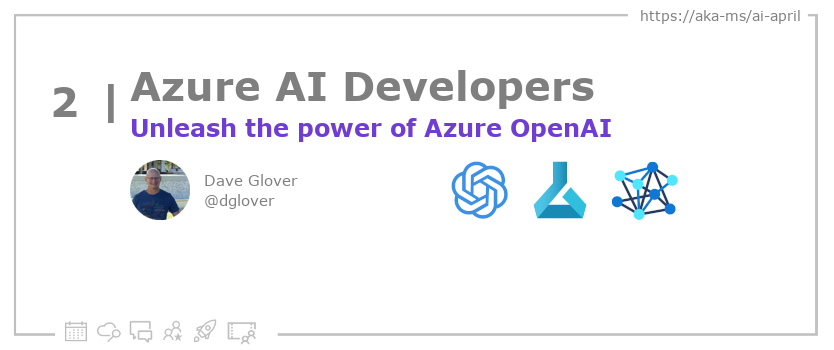
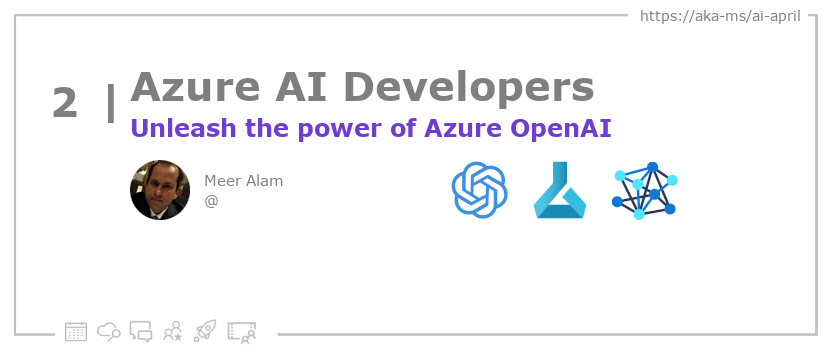
docs

Changed region(s): [[0.1559, 0.4571, 0.3429, 0.6286]]

diff --git a/website/blog/2023-aia/2023-04-03-azure-openai-services/index.md b/website/blog/2023-aia/2023-04-03-azure-openai-services/index.md
@@ -1,7 +1,7 @@
 ---
 slug: 2023-day2
 title: "2. 🏁Unleash the power of Azure OpenAI"
-authors: ['Dave']
+authors: ['Meer']
 draft: false
 hide_table_of_contents: false
 toc_min_heading_level: 2
